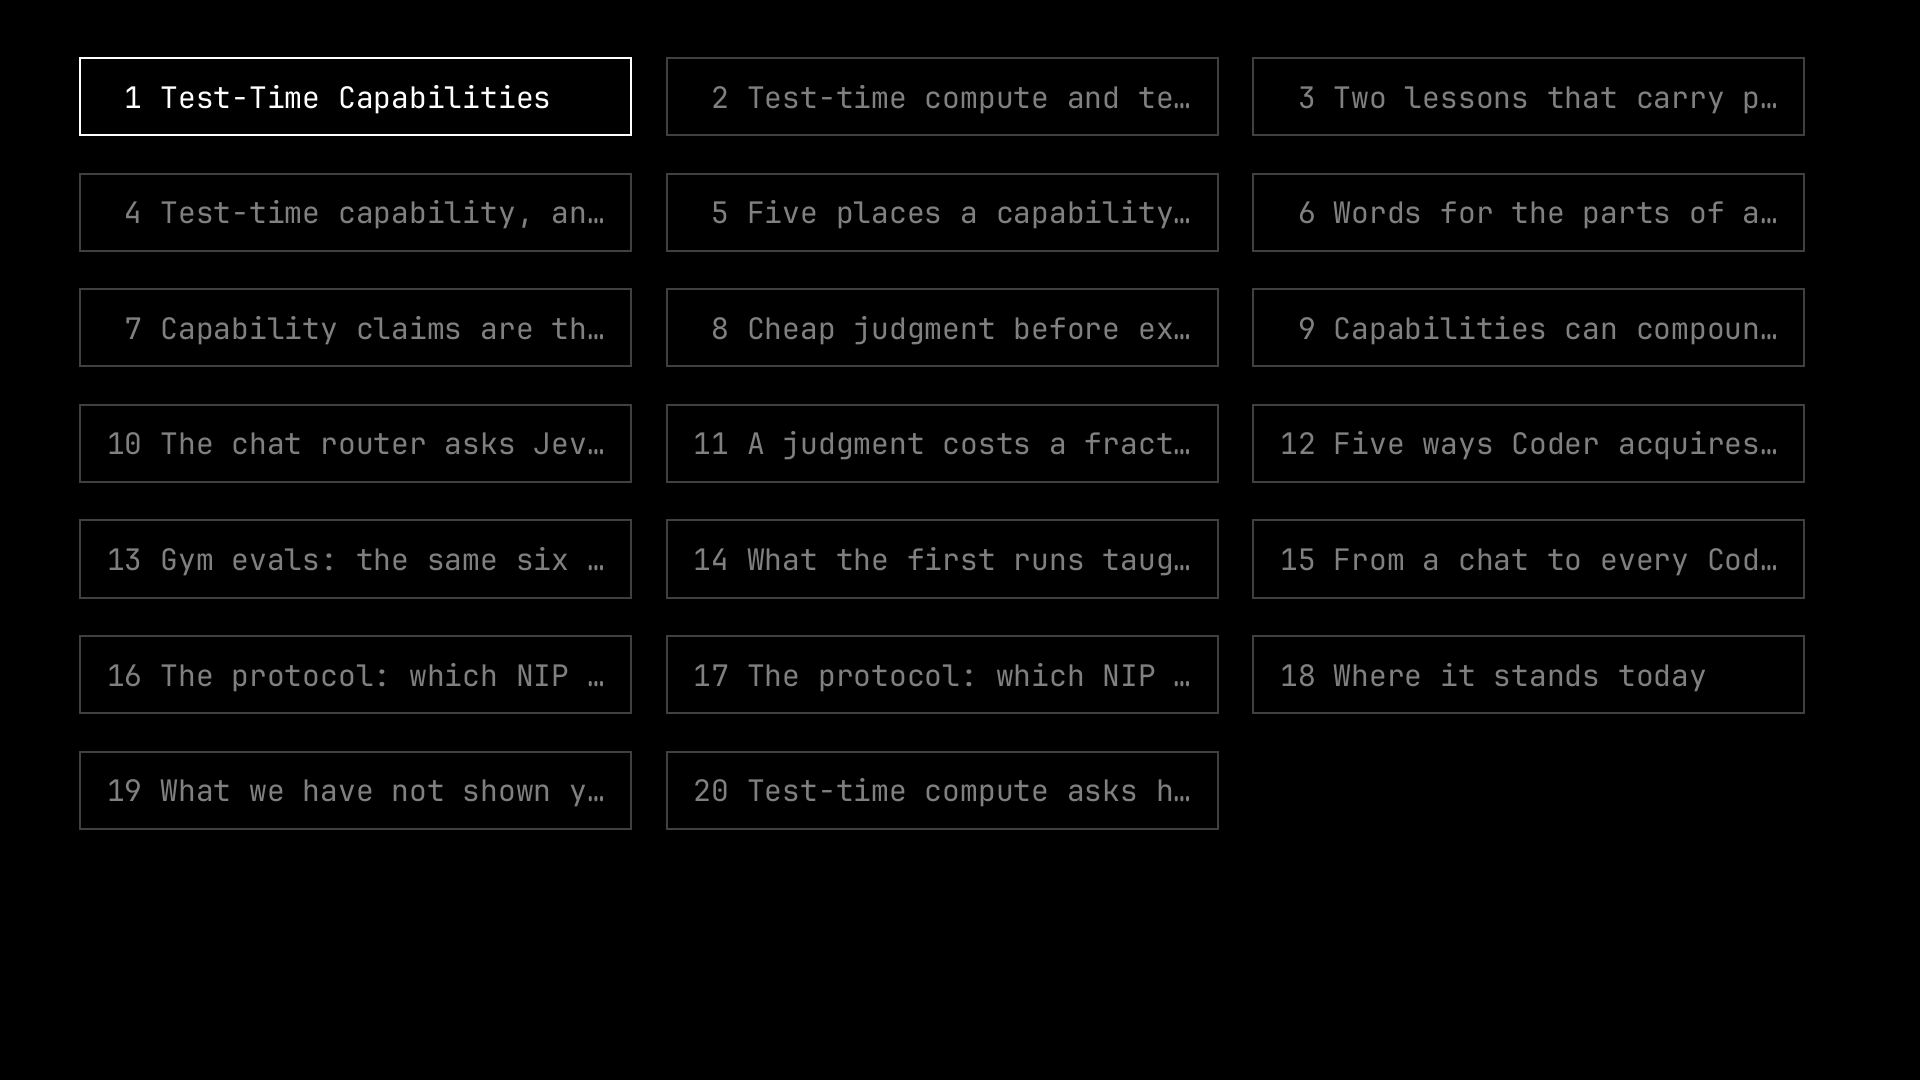
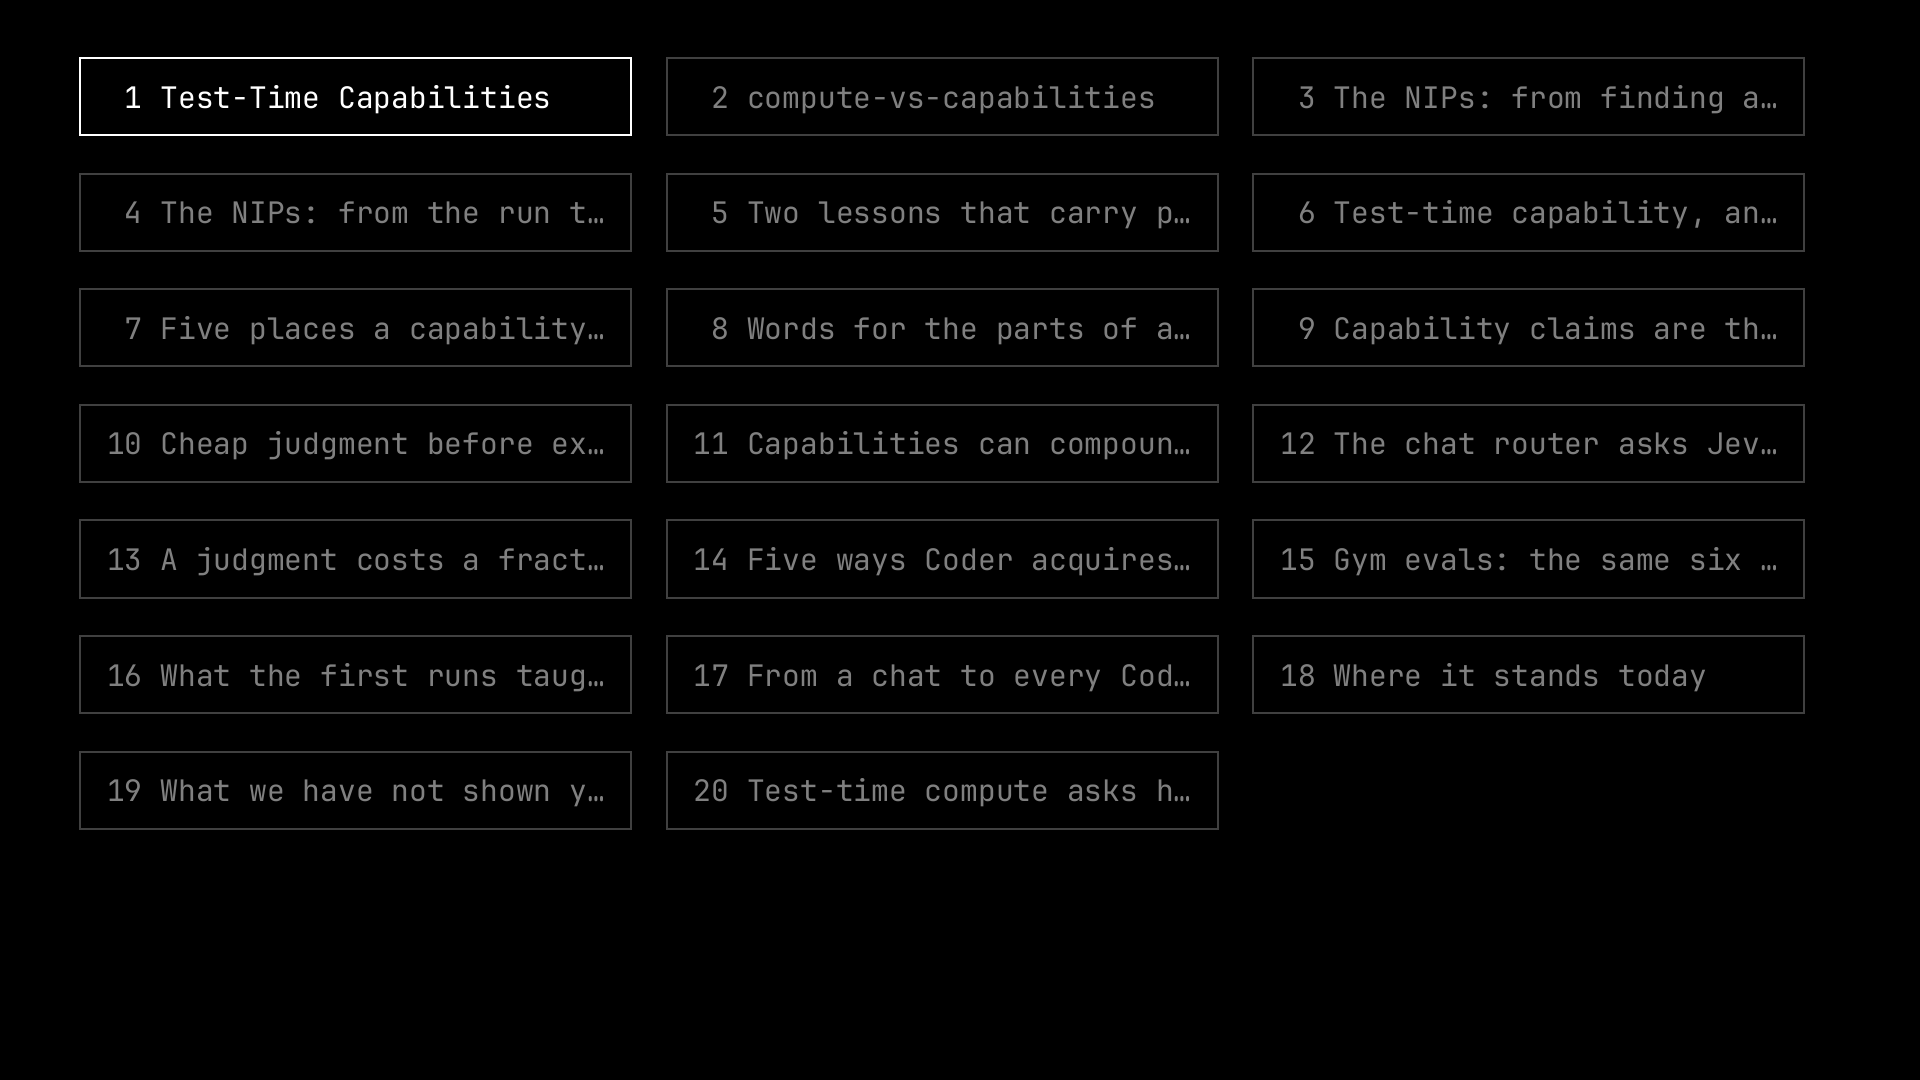
Deck: the grid alone on slide 2, then the two NIP slides with short titles
Slide 2 drops its kicker and title so the comparison grid stands alone.
The two protocol tables move to slides 3 and 4 with one-line titles and
no on-slide note ("The NIPs: from finding a capability to delegating"
and "The NIPs: from the run to the shared result"); the EXT row says
"the exact version tested". Snapshots re-blessed and every slide
recaptured under its new number.

diff --git a/crates/openagents-deck/decks/test-time-capabilities.md b/crates/openagents-deck/decks/test-time-capabilities.md
@@ -9,8 +9,6 @@ notes: Every number in the deck comes from a dated record in the repository; the
 
 layout: compare
 id: compute-vs-capabilities
-kicker: PART I · THE IDEA
-title: Test-time compute and test-time capabilities
 source: docs/essays/2026-09-29-test-time-capabilities.md#what-test-time-compute-is; docs/essays/2026-09-29-test-time-capabilities.md#the-thesis-capability-is-something-you-can-acquire-at-test-time
 
 column: Test-time compute
@@ -26,7 +24,44 @@ row: What is left after | Nothing is kept | The capability, for every agent
 notes: Test-time compute: think longer (chain of thought, o1, DeepSeek-R1), control the budget (s1: AIME24 from 50 to 57 percent), sample many and pick (SWE-bench Lite: 15.9 to 56 percent with 250 samples), allocate per question (compute-optimal beat best-of-N fourfold), adapt the weights briefly (test-time training on ARC). Wei 2022, OpenAI 2024, DeepSeek-AI 2025, Muennighoff 2025, Brown 2024, Snell 2024, Akyürek 2024.
 notes: Both leave the weights alone. Compute spends more per answer and keeps nothing. A capability is admitted to the run, proven by a claim someone else can rerun, and stays: adopted once, every agent that shares the defaults has it.
 notes: Two lessons carry over from the compute literature: a verifier is what makes extra effort pay, and the allocation is itself a judgment that should cost far less than the work it allocates.
+---
 
+layout: compare
+id: protocol-find
+title: The NIPs: from finding a capability to delegating
+column: Carries
+column: Why it matters
+column: Status
+source: docs/essays/2026-09-29-test-time-capabilities.md#the-nips-one-by-one; nips/openagents/README.md
+row: EXT | releases | the exact version tested | Partial
+row: CAP | grants | describing never grants use | Partial
+row: KB | knowledge | tested with and without | Implemented
+row: CJ | judgment, jobs | judgment and eval jobs on wire | Partial
+row: PRG | decide, delegate | pinned, bounded steps | Partial
+row: CTX | briefings | what a delegate was shown | Designed
+row: SESS | delegate engines | how each engine is steered | Designed
+row: WORK | tracked delegation | who answers for the work | Designed
+notes: EXT keeps installing, enabling, granting, and admitting separate, so the lock the with arm held is exact. CAP keeps definition, host binding, grant, and presence apart, and a grant now records whether it was for evaluation or for real use. KB never counts a task an entry was written from as its evidence.
+notes: CJ carries decision jobs and the router's judgment feedback; the hosted eval runner is an execution job. PRG's decide calls a pinned decision function, and delegate hands a bounded task to an admitted executor. The delegate door's briefing and failover run locally, with no Nostr record yet.
+---
+
+layout: compare
+id: protocol-prove
+title: The NIPs: from the run to the shared result
+column: Carries
+column: Why it matters
+column: Status
+source: docs/essays/2026-09-29-test-time-capabilities.md#the-nips-one-by-one; nips/openagents/README.md
+row: RUN | run journal | lock, grant, baseline agent | Partial
+row: ATIF | trajectories | each arm, step by step | Designed
+row: EVAL | claims, checks | signed claims, whole scope | Partial
+row: XP | credit | paid to confirm or dispute | Implemented
+row: POL | cost, adoption | operator adopts; runs keep lock | Designed
+row: OPT | optimization | faces the same test | Designed
+row: MV | Verse | Gym notes cite the result | Partial
+row: Contracts | locks | "the same tool", exactly | Partial
+notes: RUN decides; trajectories only observe. ATIF traces stay local files today; no component publishes them yet. EVAL carries the subject and baseline arms, what the run relied on, the tool's identity strength, the task distribution, a verdict from a gate that declares its primary outcome, 3189 results, checks by a different trainer, and validations on a second suite read for independence by signer and chronology.
+notes: XP: eval-check pays the checker, evaluator, and suite author whether the check confirms or disputes; eval-adopt needs a confirming check and a validation and pays the tool's author too; XP is never money. POL's route receipts would carry a judgment's time and cost. OPT's result reaches an agent only through EVAL admission and a new EXT release.
 ---
 
 layout: points
@@ -251,50 +286,6 @@ note: The hosted runner runs on coderos-4080 with a per-trainer daily quota. Sui
 source: docs/essays/2026-09-29-test-time-capabilities.md#what-is-a-capability-means-in-our-system; docs/deployment/eval-runner.md; nips/openagents/NIP-EVAL.md; packages/coder-defaults/policy.md
 notes: A tool becomes a candidate when its result is Better, three distinct trainers' checks confirmed it, and a Better result on a second test set validates it: written by someone other than the tool's author, released after the tool, on the same kind of task. Adoption is an operator decision, never automatic.
 notes: Credit is XP and a name, never money. A check is paid whether it confirms or disputes; a good dispute is worth more than a fourth confirmation. eval-adopt credits the tool's author too.
-
----
-
-layout: compare
-id: protocol-find
-kicker: PART II · OUR IMPLEMENTATION
-title: The protocol: which NIP carries what, from finding a tool to delegating
-column: Carries
-column: Why it matters
-column: Status
-note: Status is each whole NIP's, from the implementation coverage report.
-source: docs/essays/2026-09-29-test-time-capabilities.md#the-nips-one-by-one; nips/openagents/README.md
-row: EXT | releases | the exact tool version tested | Partial
-row: CAP | grants | describing never grants use | Partial
-row: KB | knowledge | tested with and without | Implemented
-row: CJ | judgment, jobs | judgment and eval jobs on wire | Partial
-row: PRG | decide, delegate | pinned, bounded steps | Partial
-row: CTX | briefings | what a delegate was shown | Designed
-row: SESS | delegate engines | how each engine is steered | Designed
-row: WORK | tracked delegation | who answers for the work | Designed
-notes: EXT keeps installing, enabling, granting, and admitting separate, so the lock the with arm held is exact. CAP keeps definition, host binding, grant, and presence apart, and a grant now records whether it was for evaluation or for real use. KB never counts a task an entry was written from as its evidence.
-notes: CJ carries decision jobs and the router's judgment feedback; the hosted eval runner is an execution job. PRG's decide calls a pinned decision function, and delegate hands a bounded task to an admitted executor. The delegate door's briefing and failover run locally, with no Nostr record yet.
-
----
-
-layout: compare
-id: protocol-prove
-kicker: PART II · OUR IMPLEMENTATION
-title: The protocol: which NIP carries what, from the run to sharing the result
-column: Carries
-column: Why it matters
-column: Status
-note: The shared contracts sit under every row: exact references, locks, the private envelope.
-source: docs/essays/2026-09-29-test-time-capabilities.md#the-nips-one-by-one; nips/openagents/README.md
-row: RUN | run journal | lock, grant, baseline agent | Partial
-row: ATIF | trajectories | each arm, step by step | Designed
-row: EVAL | claims, checks | signed claims, whole scope | Partial
-row: XP | credit | paid to confirm or dispute | Implemented
-row: POL | cost, adoption | operator adopts; runs keep lock | Designed
-row: OPT | optimization | faces the same test | Designed
-row: MV | Verse | Gym notes cite the result | Partial
-row: Contracts | locks | "the same tool", exactly | Partial
-notes: RUN decides; trajectories only observe. ATIF traces stay local files today; no component publishes them yet. EVAL carries the subject and baseline arms, what the run relied on, the tool's identity strength, the task distribution, a verdict from a gate that declares its primary outcome, 3189 results, checks by a different trainer, and validations on a second suite read for independence by signer and chronology.
-notes: XP: eval-check pays the checker, evaluator, and suite author whether the check confirms or disputes; eval-adopt needs a confirming check and a validation and pays the tool's author too; XP is never money. POL's route receipts would carry a judgment's time and cost. OPT's result reaches an agent only through EVAL admission and a new EXT release.
 
 ---
 
